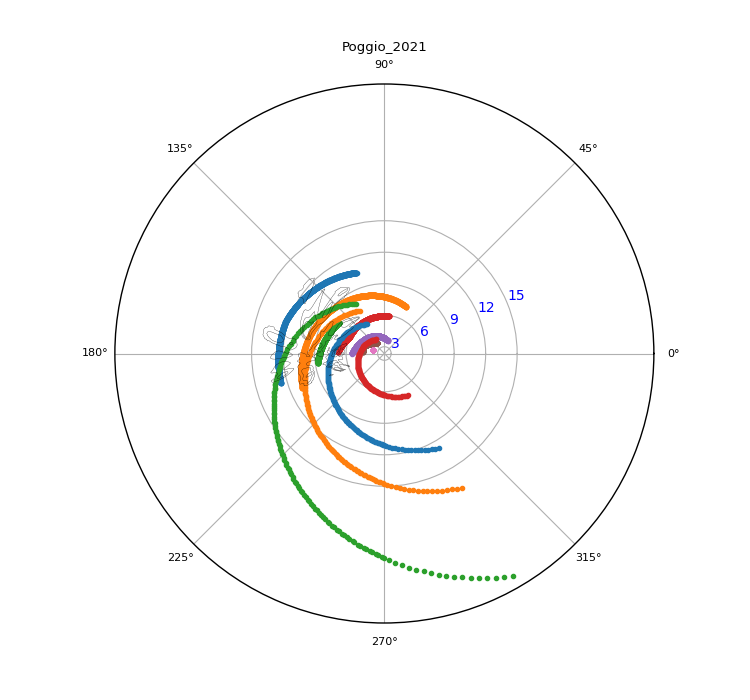
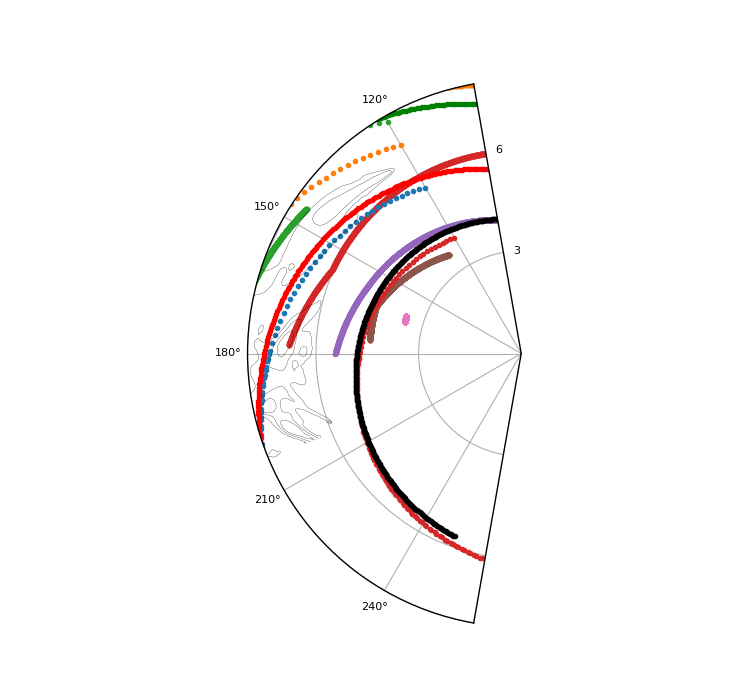
updated

diff --git a/test.py b/test.py
@@ -107,16 +107,20 @@ if polar_test:
 	spirals.readout(plotattrs,model=use_model,arm='all')
 	use_model = 'Poggio_2021'
 	spirals.readout(plotattrs,model=use_model,arm='all')
+	use_model = 'Hou_Han_2014'
+	spirals.readout(plotattrs,model=use_model,arm='all')
 
 
-	ax.set_rticks([3., 6.,9.,12,15.])
+	ax.set_rticks([3., 6.,9.,12,15.,20.])
 	
 	rlabels = ax.get_ymajorticklabels()
 	for label in rlabels:
 	    label.set_color('blue')
 	    label.set_size(fontsize=10)
 
-	plt.title(use_model)
+	# plt.title(use_model)
+	ax.set_xlim([np.radians(100),np.radians(260)])
+	ax.set_ylim([0.,8])
 
 	plt.savefig(figdir_primer+'/polar_grid_overplotted.png')
 	
